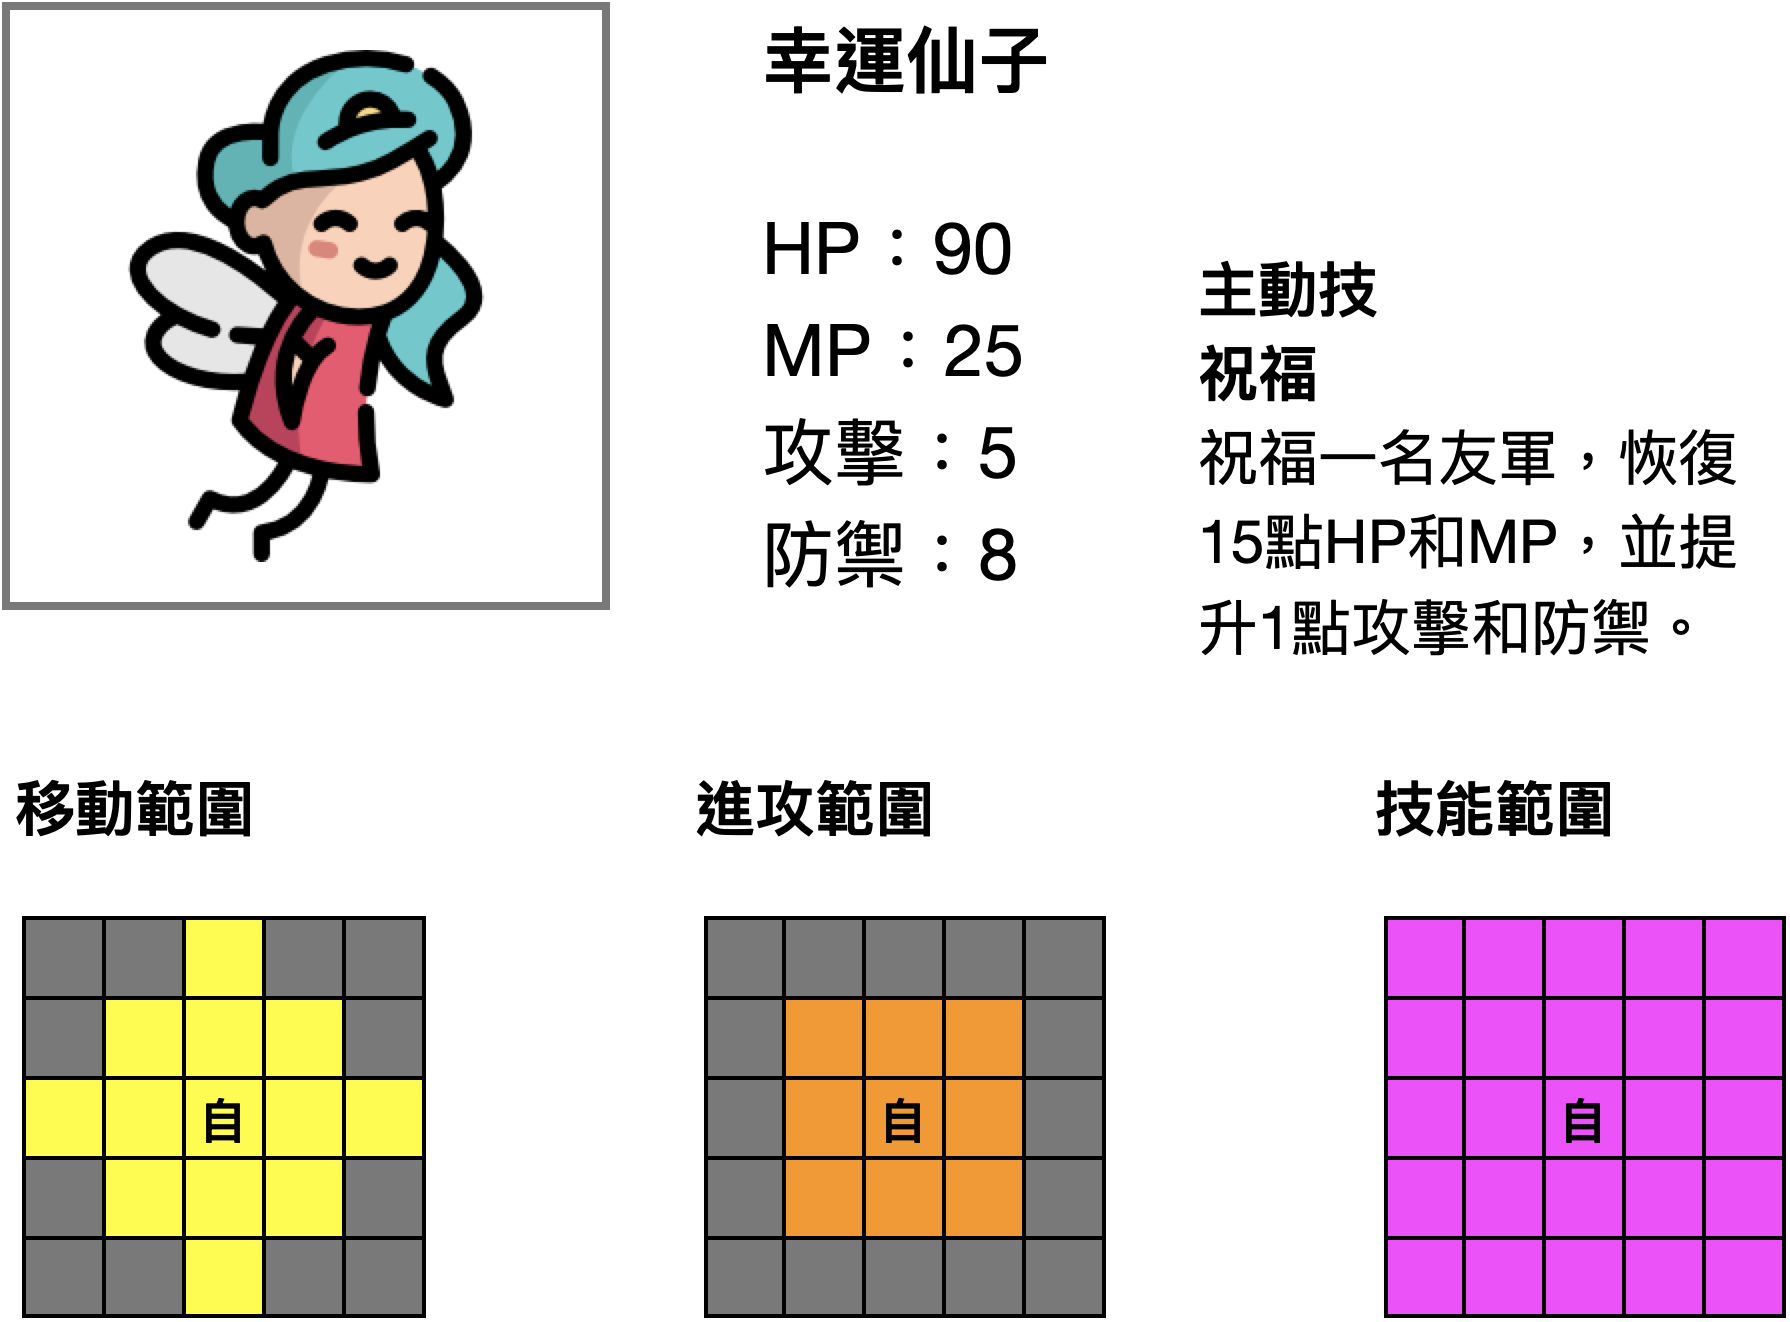
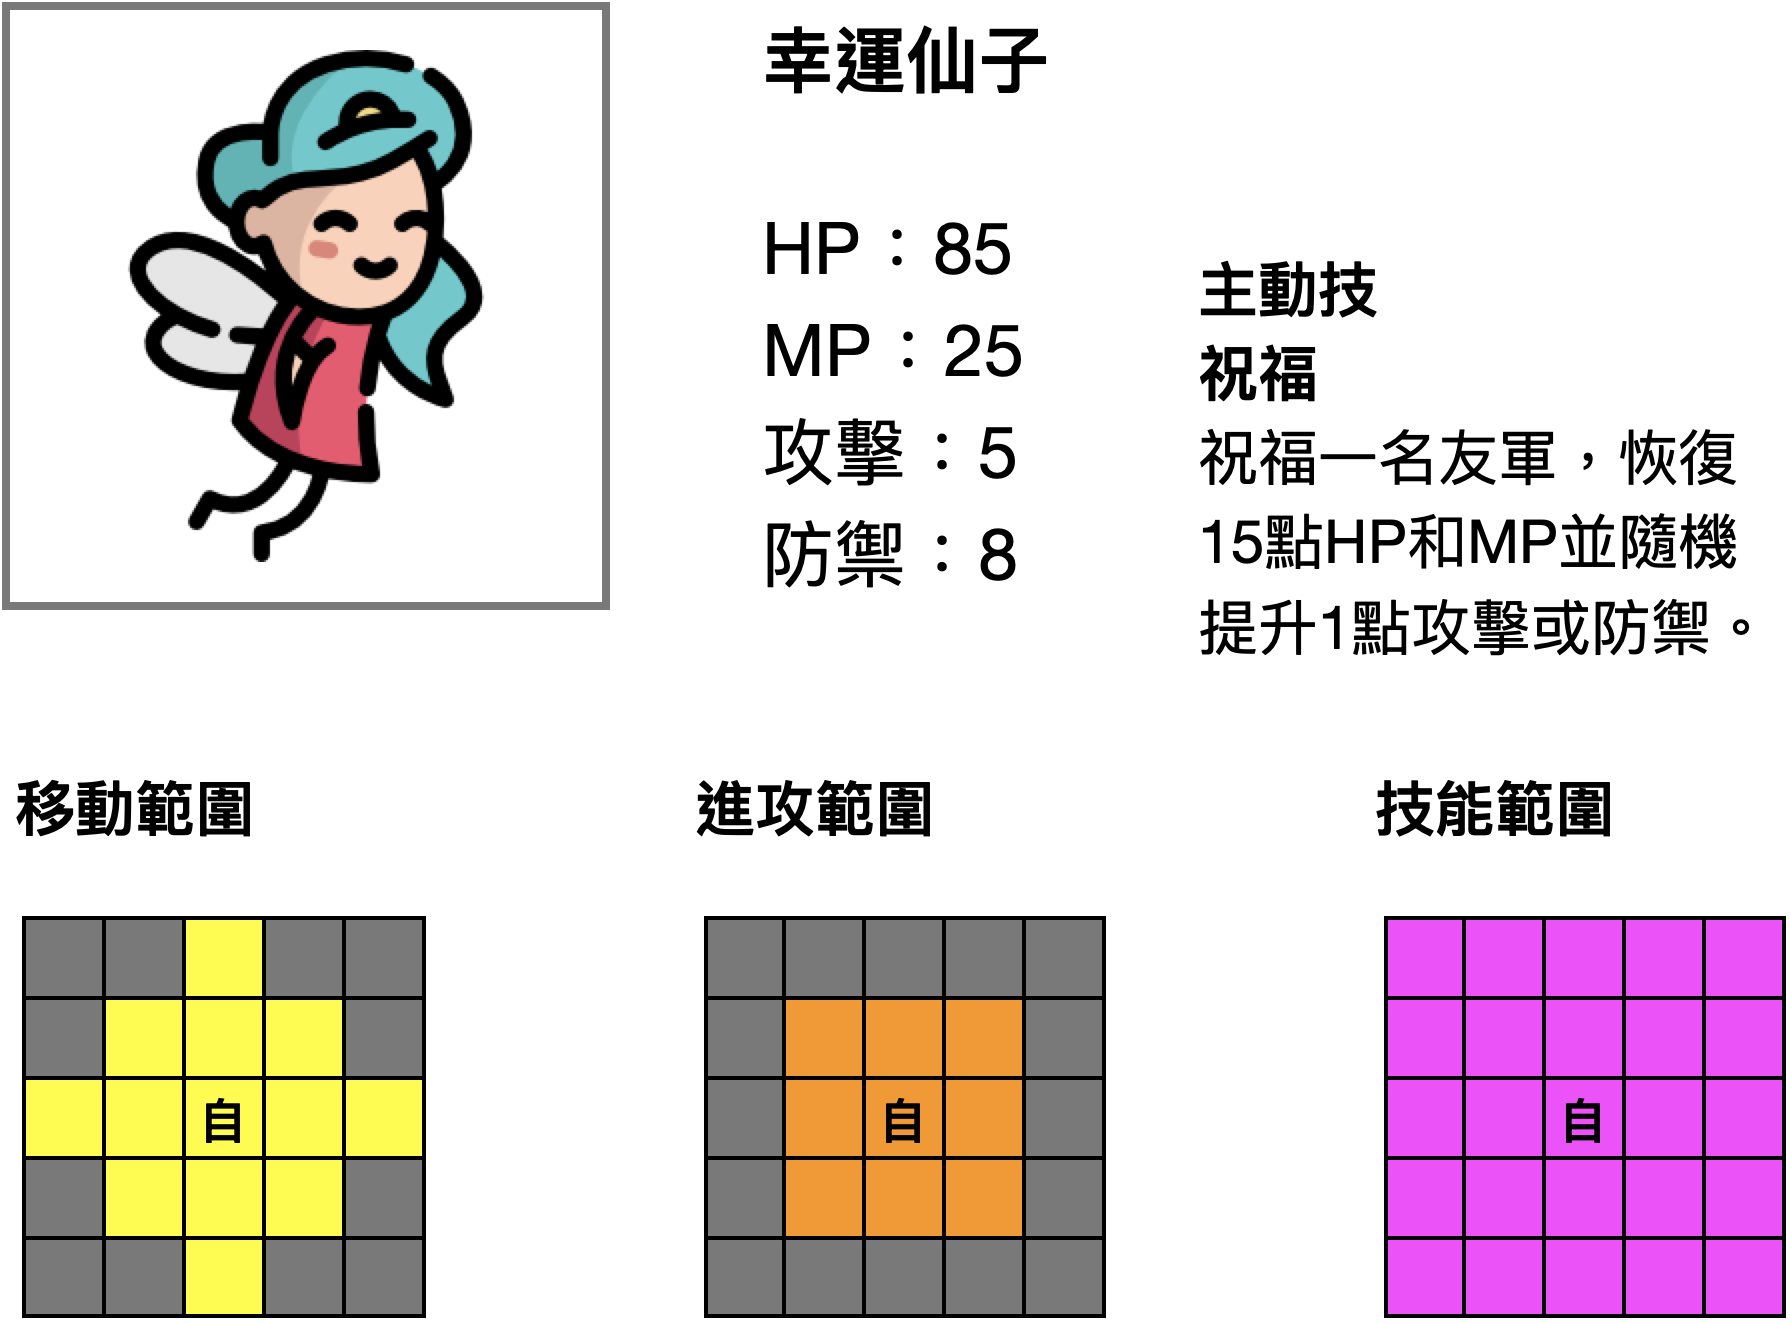
Balance(6)

Changed region(s): [[0.676, 0.3722, 0.9832, 0.4962], [0.5223, 0.1551, 0.5838, 0.2171]]

diff --git a/src/SkillInterface.js b/src/SkillInterface.js
@@ -189,9 +189,12 @@ const skill_祝福 = {
         // receiver 為 Board Array
 
         var receiver = receiverBoards[0].occupy;
-        
-        receiver.core.atk += 1;
-        receiver.core.def += 1;
+
+        if(Math.random() > 0.5){
+            receiver.core.atk += 1;
+        }else{
+            receiver.core.def += 1;
+        }
         receiver.mp.decrease(-15);
         receiver.hp.decrease(-15);
     }
